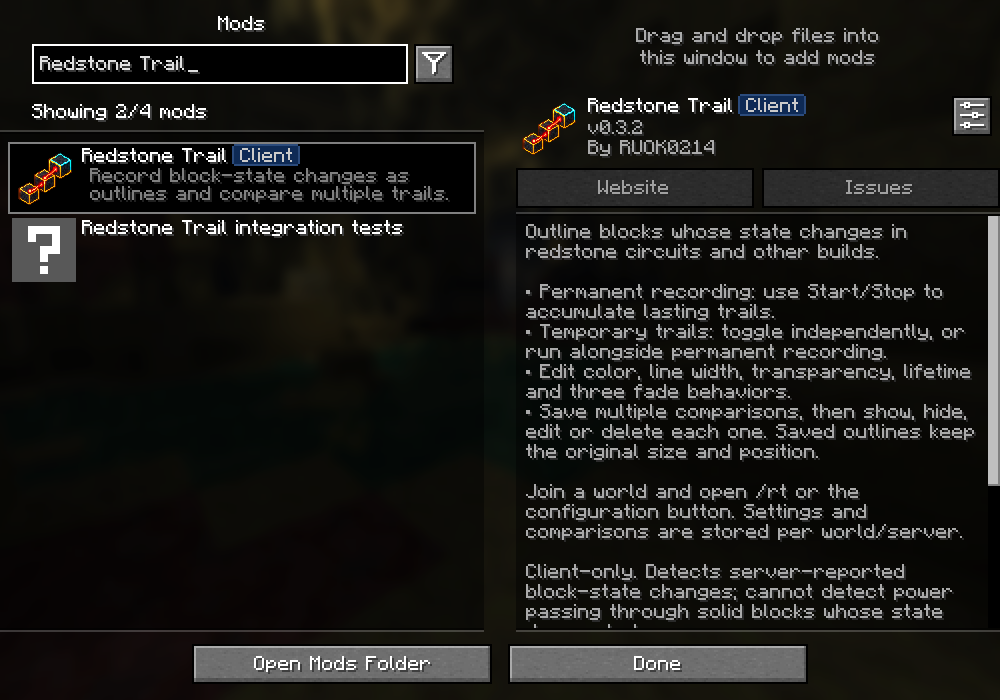
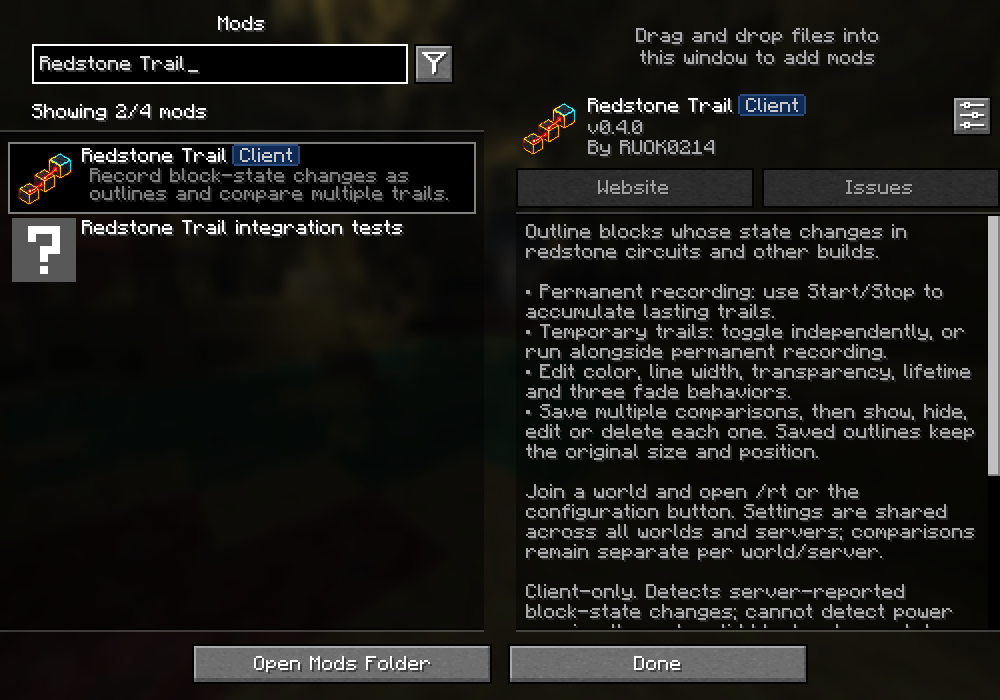
Share trail settings across worlds and extend radius to 512

Changed region(s): [[0.527, 0.72, 0.992, 0.9], [0.992, 0.66, 1.0, 0.72], [0.62, 0.18, 0.651, 0.21]]

diff --git a/src/gametest/java/io/github/ruok0214/redstonetrail/TrailSharedSettingsGameChecks.java b/src/gametest/java/io/github/ruok0214/redstonetrail/TrailSharedSettingsGameChecks.java
@@ -1,0 +1,76 @@
+package io.github.ruok0214.redstonetrail;
+
+import net.fabricmc.fabric.api.client.gametest.v1.context.ClientGameTestContext;
+import net.fabricmc.fabric.api.client.gametest.v1.context.TestSingleplayerContext;
+import net.fabricmc.fabric.api.client.gametest.v1.world.TestWorldSave;
+import net.minecraft.core.BlockPos;
+import java.util.UUID;
+
+@SuppressWarnings("UnstableApiUsage")
+final class TrailSharedSettingsGameChecks {
+    record FirstWorld(TestWorldSave save, TrailSettings settings, int count, UUID savedId, TrailBook.Style savedStyle) { }
+    private static void check(boolean condition, String message) { if (!condition) throw new AssertionError(message); }
+    static FirstWorld prepare(ClientGameTestContext context, TestSingleplayerContext world) {
+        context.runOnClient(mc -> {
+            RedstoneTrailClient.manager.stop(); RedstoneTrailClient.manager.setTemporaryEnabled(false);
+            mc.gui.setScreen(new TrailScreen(RedstoneTrailClient.manager));
+        });
+        context.waitForScreen(TrailScreen.class);
+        for (int expected : new int[]{128, 256, 512}) {
+            var label = context.computeOnClient(mc -> TrailScreen.tr("radius", RedstoneTrailClient.manager.book().radius()).getString());
+            context.clickScreenButton(label);
+            context.runOnClient(mc -> check(RedstoneTrailClient.manager.book().radius() == expected, "Radius button reaches " + expected));
+        }
+        context.takeScreenshot("radius-512-ko");
+        context.clickScreenButton("redstone_trail.start");
+        world.getServer().runCommand("setblock 6 300 4 minecraft:gold_block");
+        context.waitFor(mc -> RedstoneTrailClient.manager.book().at(RedstoneTrailClient.manager.target(new BlockPos(6,300,4))) != null);
+        context.runOnClient(mc -> check(RedstoneTrailClient.extractOutlines().stream().anyMatch(o -> o.box().minY > 299 && o.box().minY < 300),
+                "A server-reported change over 192 blocks away is captured and rendered"));
+        return context.computeOnClient(mc -> {
+            var manager = RedstoneTrailClient.manager; manager.stop(); var book = manager.book();
+            var saved = book.snapshot("World A only");
+            book.setStyle(new TrailBook.Style(0xAA55CC, 32, 6)); book.setTemporaryStyle(new TrailBook.Style(0x22EEAA, 48, 4));
+            book.setVisible(false); book.setThroughWalls(false);
+            book.configureTemporary(new TrailBook.Temporary(true, 7, TrailBook.Fade.AFTER_DURATION, 2));
+            manager.saveAll();
+            return new FirstWorld(world.getWorldSave(), TrailSettings.from(book), book.size(), saved.id(), saved.style());
+        });
+    }
+    static void switchWorlds(ClientGameTestContext context, FirstWorld first) {
+        TrailSettings latest;
+        try (var second = context.worldBuilder().create()) {
+            check(!second.getWorldSave().getSaveDirectory().equals(first.save().getSaveDirectory()), "Test uses a distinct second world");
+            second.getConnection().waitForChunksDownload();
+            context.waitFor(mc -> RedstoneTrailClient.manager.book() != null);
+            context.runOnClient(mc -> {
+                var book = RedstoneTrailClient.manager.book();
+                check(TrailSettings.from(book).equals(first.settings()), "All preferences carry to a different world");
+                check(book.size() == 0 && book.saved().isEmpty() && !book.recording(), "World A records do not appear in world B");
+                mc.gui.setScreen(new TrailScreen(RedstoneTrailClient.manager));
+            });
+            context.waitForScreen(TrailScreen.class); context.takeScreenshot("shared-settings-world-b-ko");
+            context.clickScreenButton("gui.done");
+            latest = context.computeOnClient(mc -> {
+                var manager = RedstoneTrailClient.manager; var book = manager.book();
+                book.setRadius(256); book.setVisible(true); book.setThroughWalls(true);
+                book.setStyle(new TrailBook.Style(0x11AAEE, 15, 3)); manager.setTemporaryEnabled(false);
+                manager.saveAll();
+                return TrailSettings.from(book);
+            });
+        }
+        try (var reopened = first.save().open()) {
+            reopened.getConnection().waitForChunksDownload();
+            context.waitFor(mc -> RedstoneTrailClient.manager.book() != null);
+            context.runOnClient(mc -> {
+                var manager = RedstoneTrailClient.manager; var book = manager.book();
+                check(TrailSettings.from(book).equals(latest), "Returning to a cached world keeps the newest shared settings");
+                check(book.size() == first.count() && book.saved(first.savedId()).style().equals(first.savedStyle()) && !book.recording(),
+                        "World A keeps its own paths and saved style, without resuming recording");
+                manager.saveAll(); RedstoneTrailClient.manager = new TrailManager(); RedstoneTrailClient.manager.tick(mc);
+                check(TrailSettings.from(RedstoneTrailClient.manager.book()).equals(latest)
+                        && RedstoneTrailClient.manager.book().size() == first.count(), "File reload restores shared settings and world records independently");
+            });
+        }
+    }
+}

diff --git a/src/client/java/io/github/ruok0214/redstonetrail/TrailManager.java b/src/client/java/io/github/ruok0214/redstonetrail/TrailManager.java
@@ -26,12 +26,22 @@ public final class TrailManager {
     }
     private final Map<String, Session> sessions = new HashMap<>();
     private final Map<BlockPos, BlockState> knownStates = new HashMap<>();
+    private final TrailSettingsStorage settingsStorage = new TrailSettingsStorage(FabricLoader.getInstance().getConfigDir().resolve("redstone_trail"));
+    private TrailSettings settings, savedSettings;
+    private boolean settingsReadFailed, settingsSaveFailed;
     private Session session;
     private ClientLevel level;
     private int ticks;
+    public TrailManager() {
+        try { settings = savedSettings = settingsStorage.load(); }
+        catch (IOException ex) { settingsReadFailed = true; LOG.error("Preserving unreadable shared trail settings", ex); }
+    }
     public TrailBook book() { return session == null ? null : session.book; }
-    public String error() { return session == null ? null : session.readFailed ? "load_failed" : session.saveFailed ? "save_failed" : null; }
-    public boolean canRecord() { return book() != null && !session.readFailed; }
+    public String error() {
+        if (settingsReadFailed) return "settings_load_failed";
+        return session == null ? null : session.readFailed ? "load_failed" : settingsSaveFailed ? "settings_save_failed" : session.saveFailed ? "save_failed" : null;
+    }
+    public boolean canRecord() { return book() != null && !session.readFailed && !settingsReadFailed; }
     public String dimension() { return level == null ? "" : level.dimension().identifier().toString(); }
     public TrailBook.Target target(BlockPos pos) { return new TrailBook.Target(dimension(), pos.getX(), pos.getY(), pos.getZ()); }
     public static BlockPos pos(TrailBook.Target t) { return new BlockPos(t.x(), t.y(), t.z()); }
@@ -48,6 +58,11 @@ public final class TrailManager {
             if (book() != null) book().clearTemporary();
             save(); knownStates.clear(); level = mc.level;
             session = level == null ? null : sessions.computeIfAbsent(identity(mc), Session::new);
+            if (canRecord()) {
+                if (settings == null) settings = TrailSettings.from(book());
+                else settings.applyTo(book());
+                saveSettings();
+            }
         }
         if (book() != null) {
             book().setTemporaryCenter(mc.player == null ? null : target(mc.player.blockPosition()));
@@ -71,7 +86,7 @@ public final class TrailManager {
         book().stop(); if (!book().temporary().enabled()) knownStates.clear(); save(); message("stopped");
     }
     public void clear() {
-        if (book() == null || session.readFailed) return;
+        if (!canRecord()) return;
         book().clear(); if (!book().temporary().enabled()) knownStates.clear(); save();
     }
     public void setTemporaryEnabled(boolean enabled) {
@@ -90,7 +105,7 @@ public final class TrailManager {
         knownStates.putIfAbsent(position.immutable(), source.getBlockState(position));
     }
     private boolean observing(ClientLevel source, BlockPos pos) {
-        return source == level && source == Minecraft.getInstance().level && book() != null
+        return source == level && source == Minecraft.getInstance().level && canRecord()
                 && source.hasChunkAt(pos) && book().accepts(target(pos));
     }
     /** Called before each authoritative block packet applies, including section updates. */
@@ -110,14 +125,24 @@ public final class TrailManager {
         if (source == level) knownStates.keySet().removeIf(pos -> pos.getX() >> 4 == x && pos.getZ() >> 4 == z);
     }
     public void save() {
-        if (session == null || session.readFailed || session.savedRevision == book().revision()) return;
-        try { session.storage.save(book()); session.savedRevision = book().revision(); session.saveFailed = false; }
-        catch (IOException ex) { session.saveFailed = true; LOG.error("Cannot save Redstone Trail", ex); }
+        if (canRecord()) settings = TrailSettings.from(book());
+        saveSettings();
+        saveSession(session);
+    }
+    private void saveSettings() {
+        if (settingsReadFailed || settings == null || settings.equals(savedSettings)) return;
+        try { settingsStorage.save(settings); savedSettings = settings; settingsSaveFailed = false; }
+        catch (IOException ex) { settingsSaveFailed = true; LOG.error("Cannot save shared trail settings", ex); }
+    }
+    private void saveSession(Session item) {
+        if (item == null || item.readFailed || item.savedRevision == item.book.revision()) return;
+        try { item.storage.save(item.book); item.savedRevision = item.book.revision(); item.saveFailed = false; }
+        catch (IOException ex) { item.saveFailed = true; LOG.error("Cannot save Redstone Trail", ex); }
     }
     public void saveAll() {
-        Session active = session;
-        for (Session item : sessions.values()) { session = item; save(); }
-        session = active;
+        save();
+        // Inactive worlds must never overwrite the latest shared settings during autosave.
+        for (Session item : sessions.values()) if (item != session) saveSession(item);
     }
     private void message(String key) {
         var player = Minecraft.getInstance().player;

diff --git a/src/modelTest/java/io/github/ruok0214/redstonetrail/TrailSettingsTest.java b/src/modelTest/java/io/github/ruok0214/redstonetrail/TrailSettingsTest.java
@@ -1,0 +1,50 @@
+package io.github.ruok0214.redstonetrail;
+
+import java.io.IOException;
+import java.nio.file.Files;
+import java.util.List;
+
+final class TrailSettingsTest {
+    private static TrailBook.Target pos(int x, int y, int z) { return new TrailBook.Target("minecraft:overworld", x, y, z); }
+    private static void check(boolean value, String message) { if (!value) throw new AssertionError(message); }
+    static void run() throws Exception {
+        var directory = Files.createTempDirectory("trail-shared-settings-");
+        var settingsFile = new TrailSettingsStorage(directory);
+        check(settingsFile.load() == null, "Missing shared settings allow first-world migration");
+        var a = new TrailBook(); a.setRadius(512); a.setVisible(false); a.setThroughWalls(false);
+        a.setStyle(new TrailBook.Style(0xAB1234, 45, 7)); a.setTemporaryStyle(new TrailBook.Style(0x34ABCD, 65, 3));
+        a.configureTemporary(new TrailBook.Temporary(true, 12, TrailBook.Fade.AFTER_DURATION, 4));
+        a.start(pos(0, 0, 0)); a.setTemporaryCenter(pos(0, 0, 0));
+        for (var edge : List.of(pos(512,0,0), pos(-512,0,0), pos(0,512,0), pos(0,0,-512)))
+            check(a.changed(edge), "512-block radius includes boundaries in three dimensions");
+        for (var outside : List.of(pos(513,0,0), pos(512,1,0), pos(400,400,0)))
+            check(!a.changed(outside), "512-block radius remains spherical and excludes outside");
+        check(a.size() == 4 && a.temporarySize() == 4, "Both trails support radius 512");
+        var snapshot = a.snapshot("World A"); a.stop();
+        var worldA = new TrailStorage(directory.resolve("worlds"), "A"); worldA.save(a);
+        var shared = TrailSettings.from(a); settingsFile.save(shared);
+        check(settingsFile.load().equals(shared), "All shared preferences survive restart");
+        var worldB = new TrailStorage(directory.resolve("worlds"), "B"); var b = worldB.load();
+        settingsFile.load().applyTo(b);
+        check(TrailSettings.from(b).equals(shared) && b.size() == 0 && b.saved().isEmpty() && !b.recording(),
+                "A new world inherits settings but no positions, saved comparisons or active recording");
+        b.setRadius(256); b.setStyle(new TrailBook.Style(0x55CCAA, 10, 2));
+        settingsFile.save(TrailSettings.from(b)); worldB.save(b);
+        var restoredA = worldA.load(); settingsFile.load().applyTo(restoredA);
+        check(restoredA.radius() == 256 && restoredA.style().equals(b.style()) && restoredA.size() == 4
+                && restoredA.saved(snapshot.id()).style().equals(snapshot.style()),
+                "Latest shared settings replace old world settings without changing paths or saved-trail styles");
+        restoredA.setRadius(512); worldA.save(restoredA);
+        check(worldA.load().radius() == 512, "World files accept the expanded radius");
+        boolean rejected = false;
+        try { b.setRadius(384); } catch (IllegalArgumentException expected) { rejected = true; }
+        check(rejected, "Unsupported radius is rejected");
+        Files.writeString(settingsFile.file(), "{invalid"); rejected = false;
+        try { settingsFile.load(); } catch (IOException expected) { rejected = true; }
+        check(rejected && Files.readString(settingsFile.file()).equals("{invalid"), "Unreadable global settings remain intact");
+        Files.writeString(settingsFile.file(), "null"); rejected = false;
+        try { settingsFile.load(); } catch (IOException expected) { rejected = true; }
+        check(rejected, "Null settings cannot silently reset preferences");
+        System.out.println("TrailSettingsTest: shared preferences, isolated worlds, migration and radius 512 passed");
+    }
+}

diff --git a/src/main/java/io/github/ruok0214/redstonetrail/TrailSettingsStorage.java b/src/main/java/io/github/ruok0214/redstonetrail/TrailSettingsStorage.java
@@ -1,0 +1,33 @@
+package io.github.ruok0214.redstonetrail;
+
+import com.google.gson.Gson;
+import com.google.gson.GsonBuilder;
+import java.io.IOException;
+import java.nio.charset.StandardCharsets;
+import java.nio.file.*;
+import java.util.Objects;
+
+public final class TrailSettingsStorage {
+    private static final Gson GSON = new GsonBuilder().setPrettyPrinting().create();
+    private final Path file;
+    public TrailSettingsStorage(Path directory) { file = directory.resolve("settings.json"); }
+    public Path file() { return file; }
+    /** Null means that the first successfully opened world should supply the initial preferences. */
+    public TrailSettings load() throws IOException {
+        if (!Files.exists(file)) return null;
+        if (Files.size(file) > 64 * 1024) throw new IOException("Settings file exceeds 64 KiB");
+        try (var reader = Files.newBufferedReader(file, StandardCharsets.UTF_8)) {
+            return Objects.requireNonNull(GSON.fromJson(reader, TrailSettings.class));
+        } catch (RuntimeException ex) { throw new IOException("Invalid shared settings: " + file, ex); }
+    }
+    public void save(TrailSettings settings) throws IOException {
+        Objects.requireNonNull(settings);
+        Files.createDirectories(file.getParent());
+        Path temporary = Files.createTempFile(file.getParent(), "redstone-trail-settings-", ".tmp");
+        try {
+            Files.writeString(temporary, GSON.toJson(settings), StandardCharsets.UTF_8);
+            try { Files.move(temporary, file, StandardCopyOption.ATOMIC_MOVE, StandardCopyOption.REPLACE_EXISTING); }
+            catch (AtomicMoveNotSupportedException ex) { Files.move(temporary, file, StandardCopyOption.REPLACE_EXISTING); }
+        } finally { Files.deleteIfExists(temporary); }
+    }
+}

diff --git a/src/main/java/io/github/ruok0214/redstonetrail/TrailBook.java b/src/main/java/io/github/ruok0214/redstonetrail/TrailBook.java
@@ -6,6 +6,7 @@ import java.util.function.LongSupplier;
 /** Independent persistent recording and live temporary display, plus comparison snapshots. */
 public final class TrailBook {
     public static final int MAX_MARKS = 8192, MAX_SAVED = 16, MAX_SAVED_MARKS = 32768;
+    public static final int MAX_RADIUS = 512;
     public record Target(String dimension, int x, int y, int z) { }
     public record Mark(Target target, long changes, long activatedAt) {
         public Mark(Target target, long changes) { this(target, changes, 0); }
@@ -125,9 +126,10 @@ public final class TrailBook {
     }
     public void setRadius(int value) {
         if (recording) throw new IllegalStateException("Stop before changing the radius");
-        if (value != 16 && value != 32 && value != 64 && value != 128) throw new IllegalArgumentException("radius");
+        if (!validRadius(value)) throw new IllegalArgumentException("radius");
         if (radius != value) { radius = value; revision++; }
     }
+    public static boolean validRadius(int value) { return value >= 16 && value <= MAX_RADIUS && Integer.bitCount(value) == 1; }
     public void setVisible(boolean value) { if (visible != value) { visible = value; revision++; } }
     public void setThroughWalls(boolean value) { if (throughWalls != value) { throughWalls = value; revision++; } }
     public void start(Target origin) { center = Objects.requireNonNull(origin); recording = true; limitReached = false; }

diff --git a/src/main/java/io/github/ruok0214/redstonetrail/TrailSettings.java b/src/main/java/io/github/ruok0214/redstonetrail/TrailSettings.java
@@ -1,0 +1,19 @@
+package io.github.ruok0214.redstonetrail;
+
+import java.util.Objects;
+
+/** Shared preferences only; positions, recordings and comparison snapshots stay in their world. */
+public record TrailSettings(int version, int radius, boolean visible, boolean throughWalls,
+                            TrailBook.Style style, TrailBook.Temporary temporary, TrailBook.Style temporaryStyle) {
+    public TrailSettings {
+        if (version != 1 || !TrailBook.validRadius(radius)) throw new IllegalArgumentException("Invalid shared settings");
+        Objects.requireNonNull(style); Objects.requireNonNull(temporary); Objects.requireNonNull(temporaryStyle);
+    }
+    public static TrailSettings from(TrailBook book) {
+        return new TrailSettings(1, book.radius(), book.visible(), book.throughWalls(), book.style(), book.temporary(), book.temporaryStyle());
+    }
+    public void applyTo(TrailBook book) {
+        book.setRadius(radius); book.setVisible(visible); book.setThroughWalls(throughWalls);
+        book.setStyle(style); book.configureTemporary(temporary); book.setTemporaryStyle(temporaryStyle);
+    }
+}

diff --git a/src/gametest/java/io/github/ruok0214/redstonetrail/TrailClientGameTest.java b/src/gametest/java/io/github/ruok0214/redstonetrail/TrailClientGameTest.java
@@ -181,6 +181,7 @@ public final class TrailClientGameTest implements FabricClientGameTest {
         context.getInput().resizeWindow(1000, 700);
         boolean hasModMenu = net.fabricmc.loader.api.FabricLoader.getInstance().isModLoaded("modmenu");
         if (hasModMenu) TrailModMenuGameChecks.title(context);
+        TrailSharedSettingsGameChecks.FirstWorld sharedCheck;
         try (var world = context.worldBuilder().create()) {
             world.getConnection().waitForChunksDownload();
             world.getServer().runCommand("gamemode creative @a");
@@ -244,6 +245,8 @@ public final class TrailClientGameTest implements FabricClientGameTest {
             context.getInput().resizeWindow(854, 480); context.waitTick(); context.takeScreenshot("menu-small-ko");
             context.clickScreenButton("gui.done");
             features(context, world);
+            sharedCheck = TrailSharedSettingsGameChecks.prepare(context, world);
         }
+        TrailSharedSettingsGameChecks.switchWorlds(context, sharedCheck);
     }
 }

diff --git a/src/client/java/io/github/ruok0214/redstonetrail/TrailScreen.java b/src/client/java/io/github/ruok0214/redstonetrail/TrailScreen.java
@@ -23,7 +23,7 @@ public final class TrailScreen extends TrailPanel {
             minecraft.gui.setScreen(this);
         }, tr("clear_title"), tr("clear_hint"))));
         radius = addRenderableWidget(Button.builder(tr("radius", book.radius()), b -> {
-            int value = book.radius(); book.setRadius(value == 128 ? 16 : value * 2);
+            int value = book.radius(); book.setRadius(value == TrailBook.MAX_RADIUS ? 16 : value * 2);
             manager.save(); b.setMessage(tr("radius", book.radius()));
         }).bounds(left + 10, top + 86, half, 20).build());
         radius.setTooltip(Tooltip.create(tr("radius_hint")));

diff --git a/src/client/java/io/github/ruok0214/redstonetrail/RedstoneTrailClient.java b/src/client/java/io/github/ruok0214/redstonetrail/RedstoneTrailClient.java
@@ -76,7 +76,7 @@ public final class RedstoneTrailClient implements ClientModInitializer {
         if ((color >>> 24) == 0) return;
         var t = mark.target();
         if (!t.dimension().equals(manager.dimension()) || !mc.level.hasChunkAt(TrailManager.pos(t))
-                || mc.player.distanceToSqr(t.x() + .5, t.y() + .5, t.z() + .5) > 192 * 192) return;
+                || mc.player.distanceToSqr(t.x() + .5, t.y() + .5, t.z() + .5) > TrailBook.MAX_RADIUS * TrailBook.MAX_RADIUS) return;
         output.add(new Outline(new AABB(TrailManager.pos(t)).inflate(inflation), throughWalls, color, style.width()));
     }
 }

diff --git a/src/client/java/io/github/ruok0214/redstonetrail/TrailInfoScreen.java b/src/client/java/io/github/ruok0214/redstonetrail/TrailInfoScreen.java
@@ -5,7 +5,7 @@ import net.minecraft.client.gui.components.Button;
 import net.minecraft.client.gui.screens.Screen;
 import net.minecraft.network.chat.Component;
 
-/** World-specific settings are available after joining a world. */
+/** Recording controls are available after joining a world. */
 final class TrailInfoScreen extends Screen {
     private final Screen parent;
     TrailInfoScreen(Screen parent) { super(Component.literal("Redstone Trail")); this.parent = parent; }

diff --git a/src/modelTest/java/io/github/ruok0214/redstonetrail/TrailBookTest.java b/src/modelTest/java/io/github/ruok0214/redstonetrail/TrailBookTest.java
@@ -39,6 +39,7 @@ public final class TrailBookTest {
         catch (IllegalArgumentException expected) { failed = true; }
         check(failed, "Invalid marks rejected");
         TrailFeaturesTest.run();
+        TrailSettingsTest.run();
         System.out.println("TrailBookTest: all checks passed");
     }
 }
